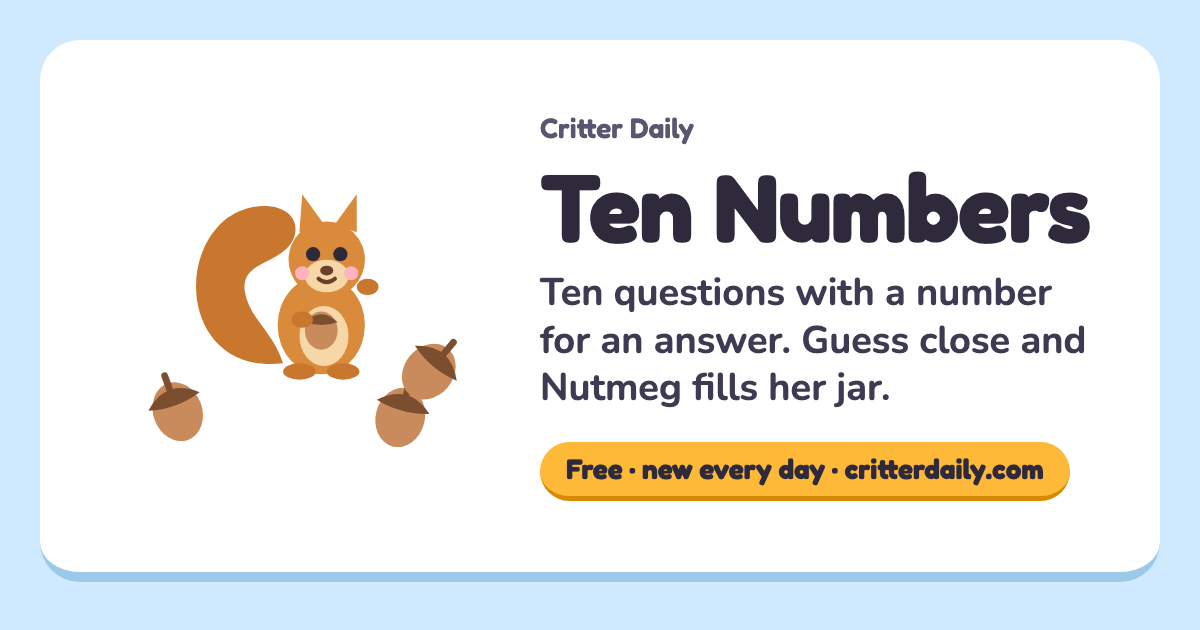
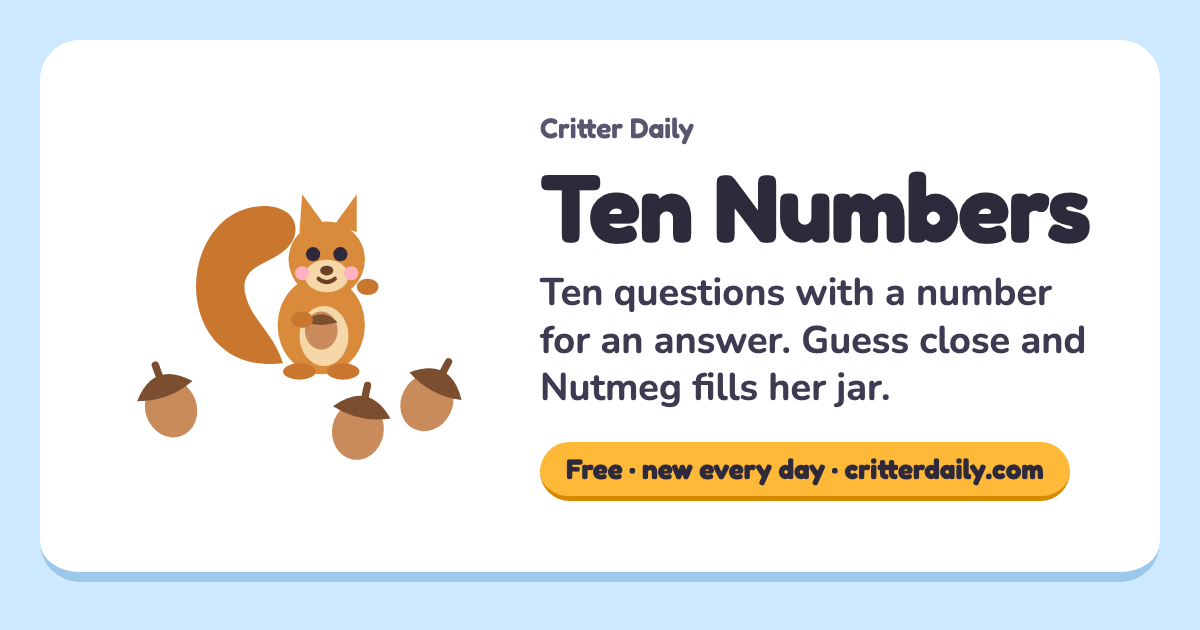
Update Critter Daily

Changed region(s): [[0.2775, 0.5429, 0.4008, 0.754], [0.0925, 0.573, 0.185, 0.6937]]

diff --git a/ten-numbers/app.js b/ten-numbers/app.js
@@ -82,14 +82,14 @@ function nutmeg({ wave = false, cheer = false } = {}) {
     </g>`;
 }
 
-const ACORN = '<ellipse cx="10" cy="15" rx="7" ry="8" fill="#c98b5b"/><path d="M2 10Q10 2 18 10Q10 13 2 10Z" fill="#7a4e2e"/><rect x="9" y="1" width="2" height="4" rx="1" fill="#7a4e2e"/>';
+const ACORN = '<ellipse cx="10" cy="15" rx="7" ry="8" fill="#c98b5b"/><path d="M2 10Q10 1 18 10Q10 13 2 10Z" fill="#7a4e2e"/><rect x="9" y="1.5" width="2" height="5" rx="1" fill="#7a4e2e"/>';
 const acorn = (cls = "", style = "") => `<svg class="${cls}" viewBox="0 0 20 24" aria-hidden="true"${style ? ` style="${style}"` : ""}>${ACORN}</svg>`;
 
 const GLASS = "M22 34Q22 26 30 26H70Q78 26 78 34V104Q78 116 66 116H34Q22 116 22 104Z";
 /** Nutmeg's jar, in a 0 0 100 124 box, filled to `share` (0 to 1). `id` keeps two jars on one page apart. */
 function jar(id, share) {
   return `<defs><clipPath id="${id}-glass"><path d="${GLASS}"/></clipPath>
-      <pattern id="${id}-nuts" width="16" height="16" patternUnits="userSpaceOnUse"><rect width="16" height="16" fill="#e8b27a"/><ellipse cx="8" cy="10" rx="5" ry="5.5" fill="#c98b5b"/><path d="M3 7Q8 2 13 7Q8 9 3 7Z" fill="#7a4e2e"/></pattern></defs>
+      <pattern id="${id}-nuts" width="16" height="16" patternUnits="userSpaceOnUse"><rect width="16" height="16" fill="#e8b27a"/><ellipse cx="8" cy="10" rx="5" ry="5.5" fill="#c98b5b"/><path d="M3 7Q8 1 13 7Q8 9 3 7Z" fill="#7a4e2e"/></pattern></defs>
     <path d="${GLASS}" fill="#ffffff" fill-opacity=".55"/>
     <g clip-path="url(#${id}-glass)"><g class="jar-fill" style="transform:translateY(${(90 * (1 - share)).toFixed(1)}px)"><rect x="22" y="26" width="56" height="90" fill="url(#${id}-nuts)"/></g></g>
     <path d="${GLASS}" fill="none" stroke="#2e2a3b" stroke-width="3"/>
